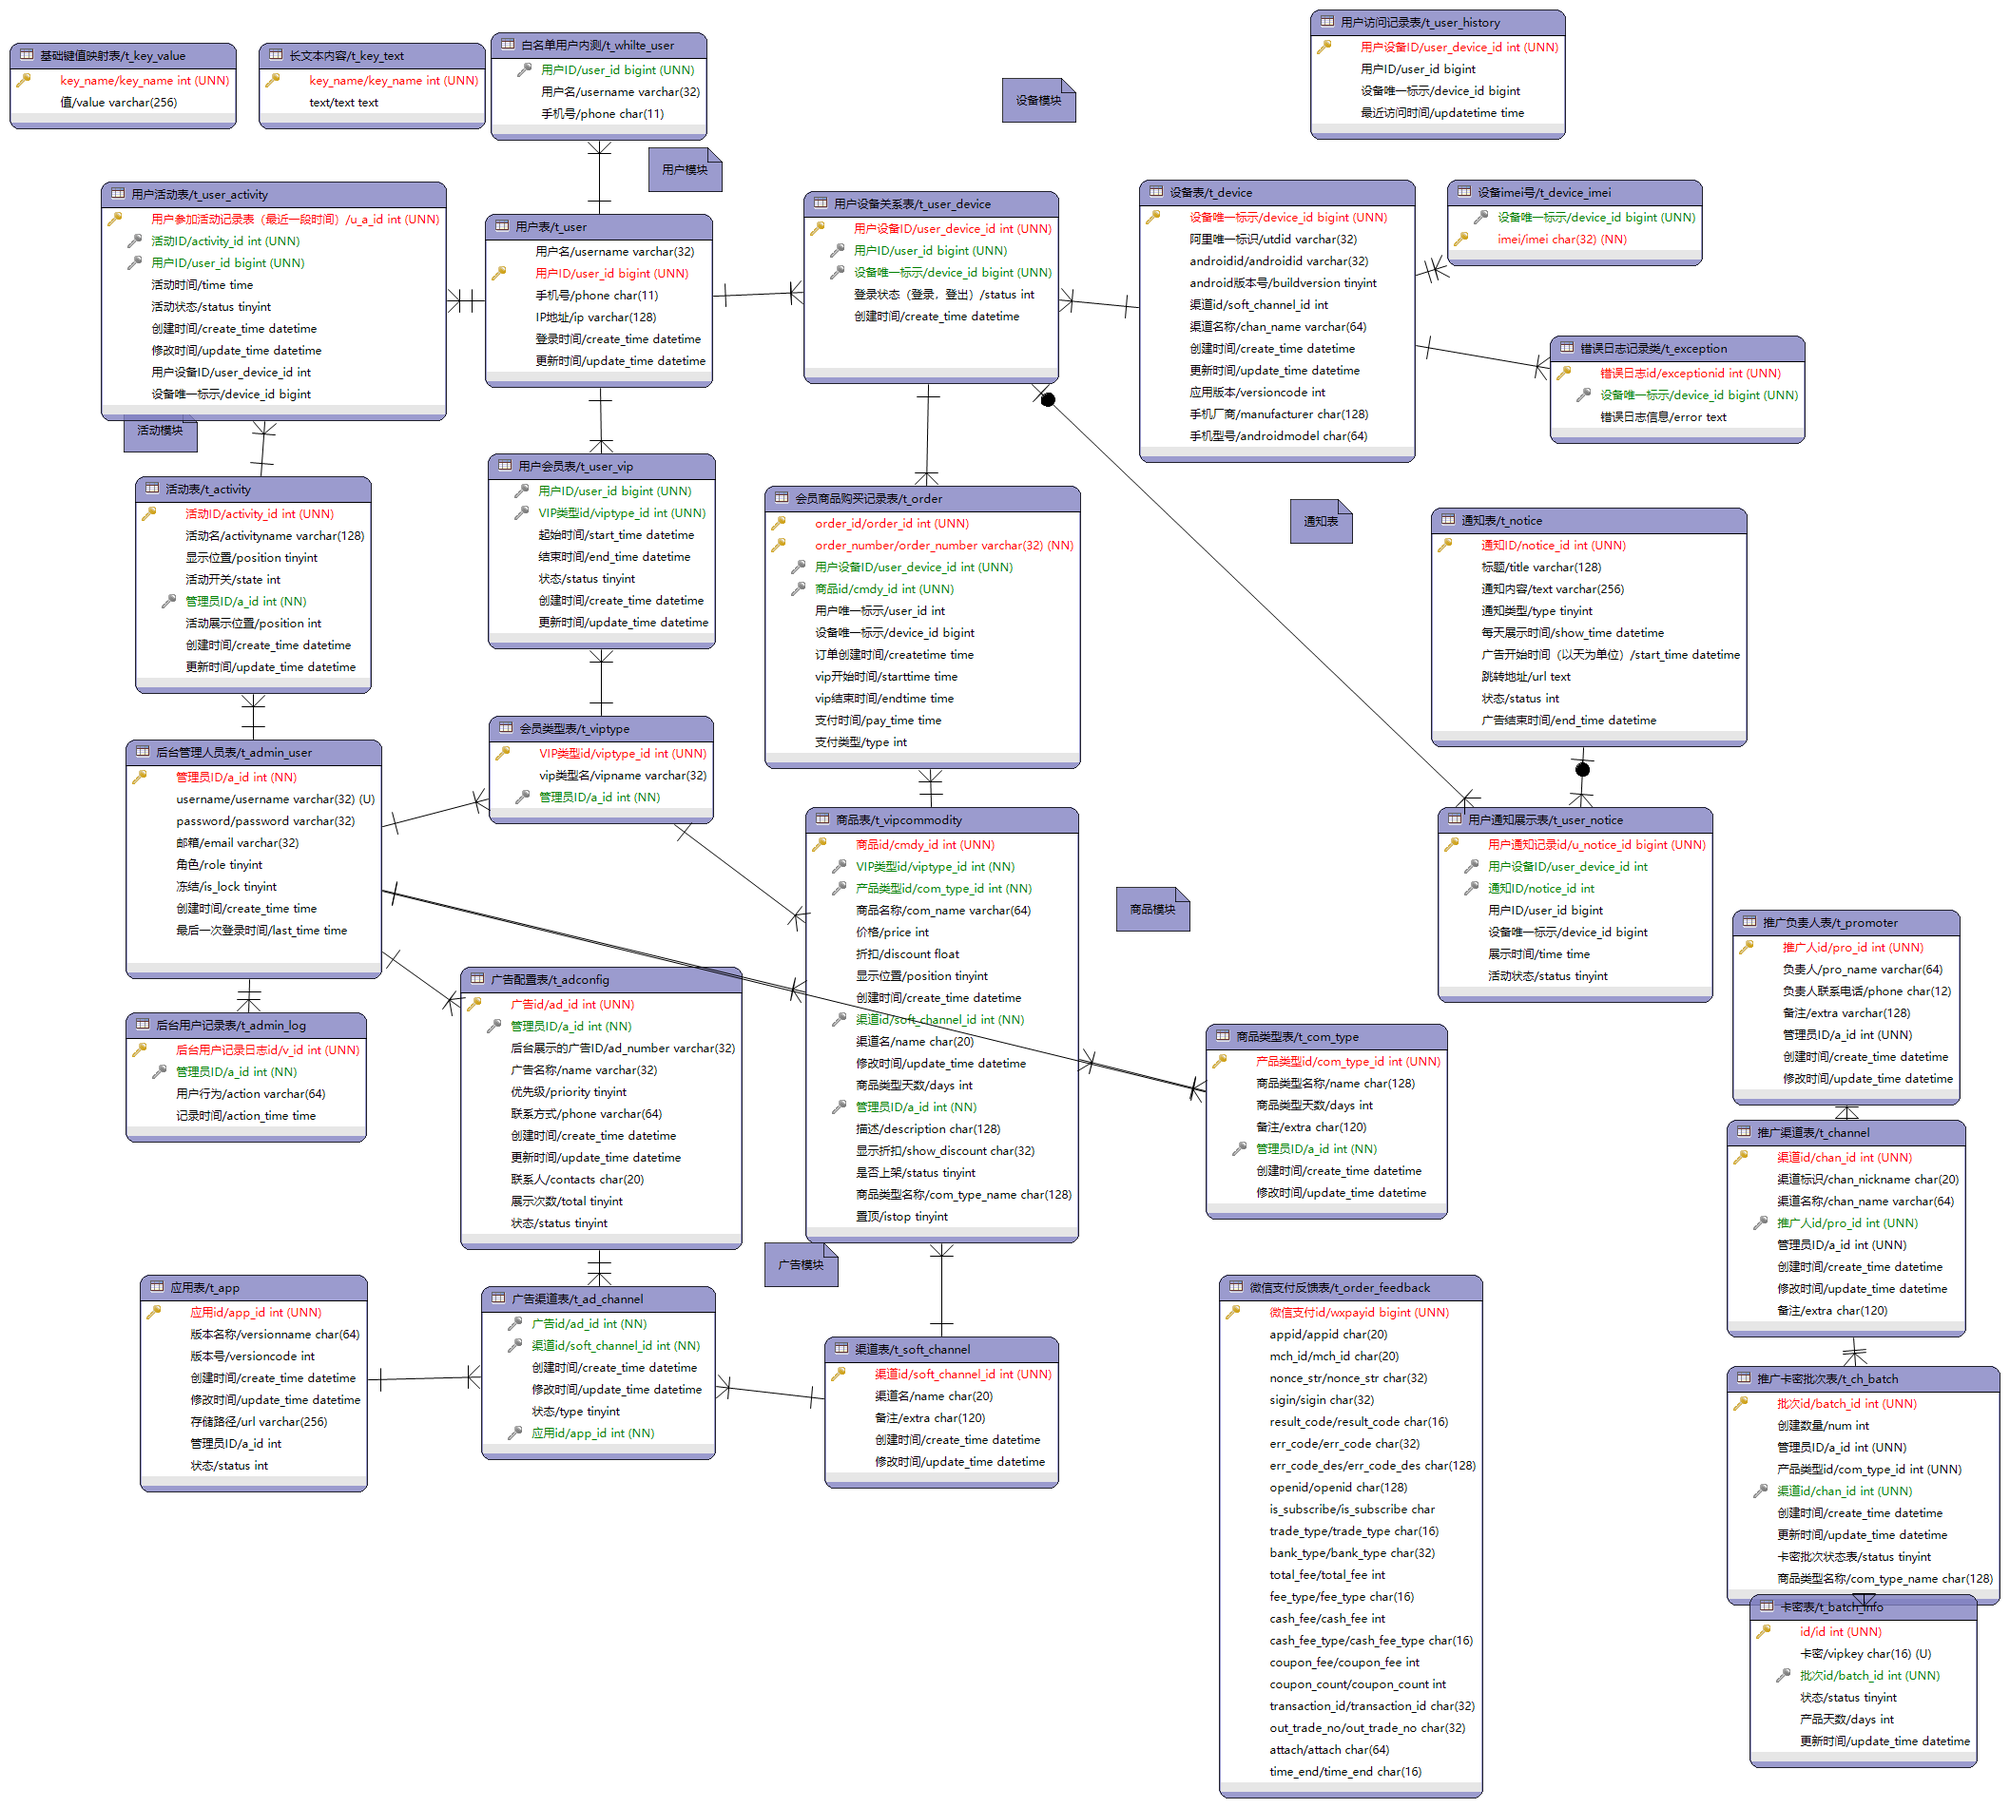
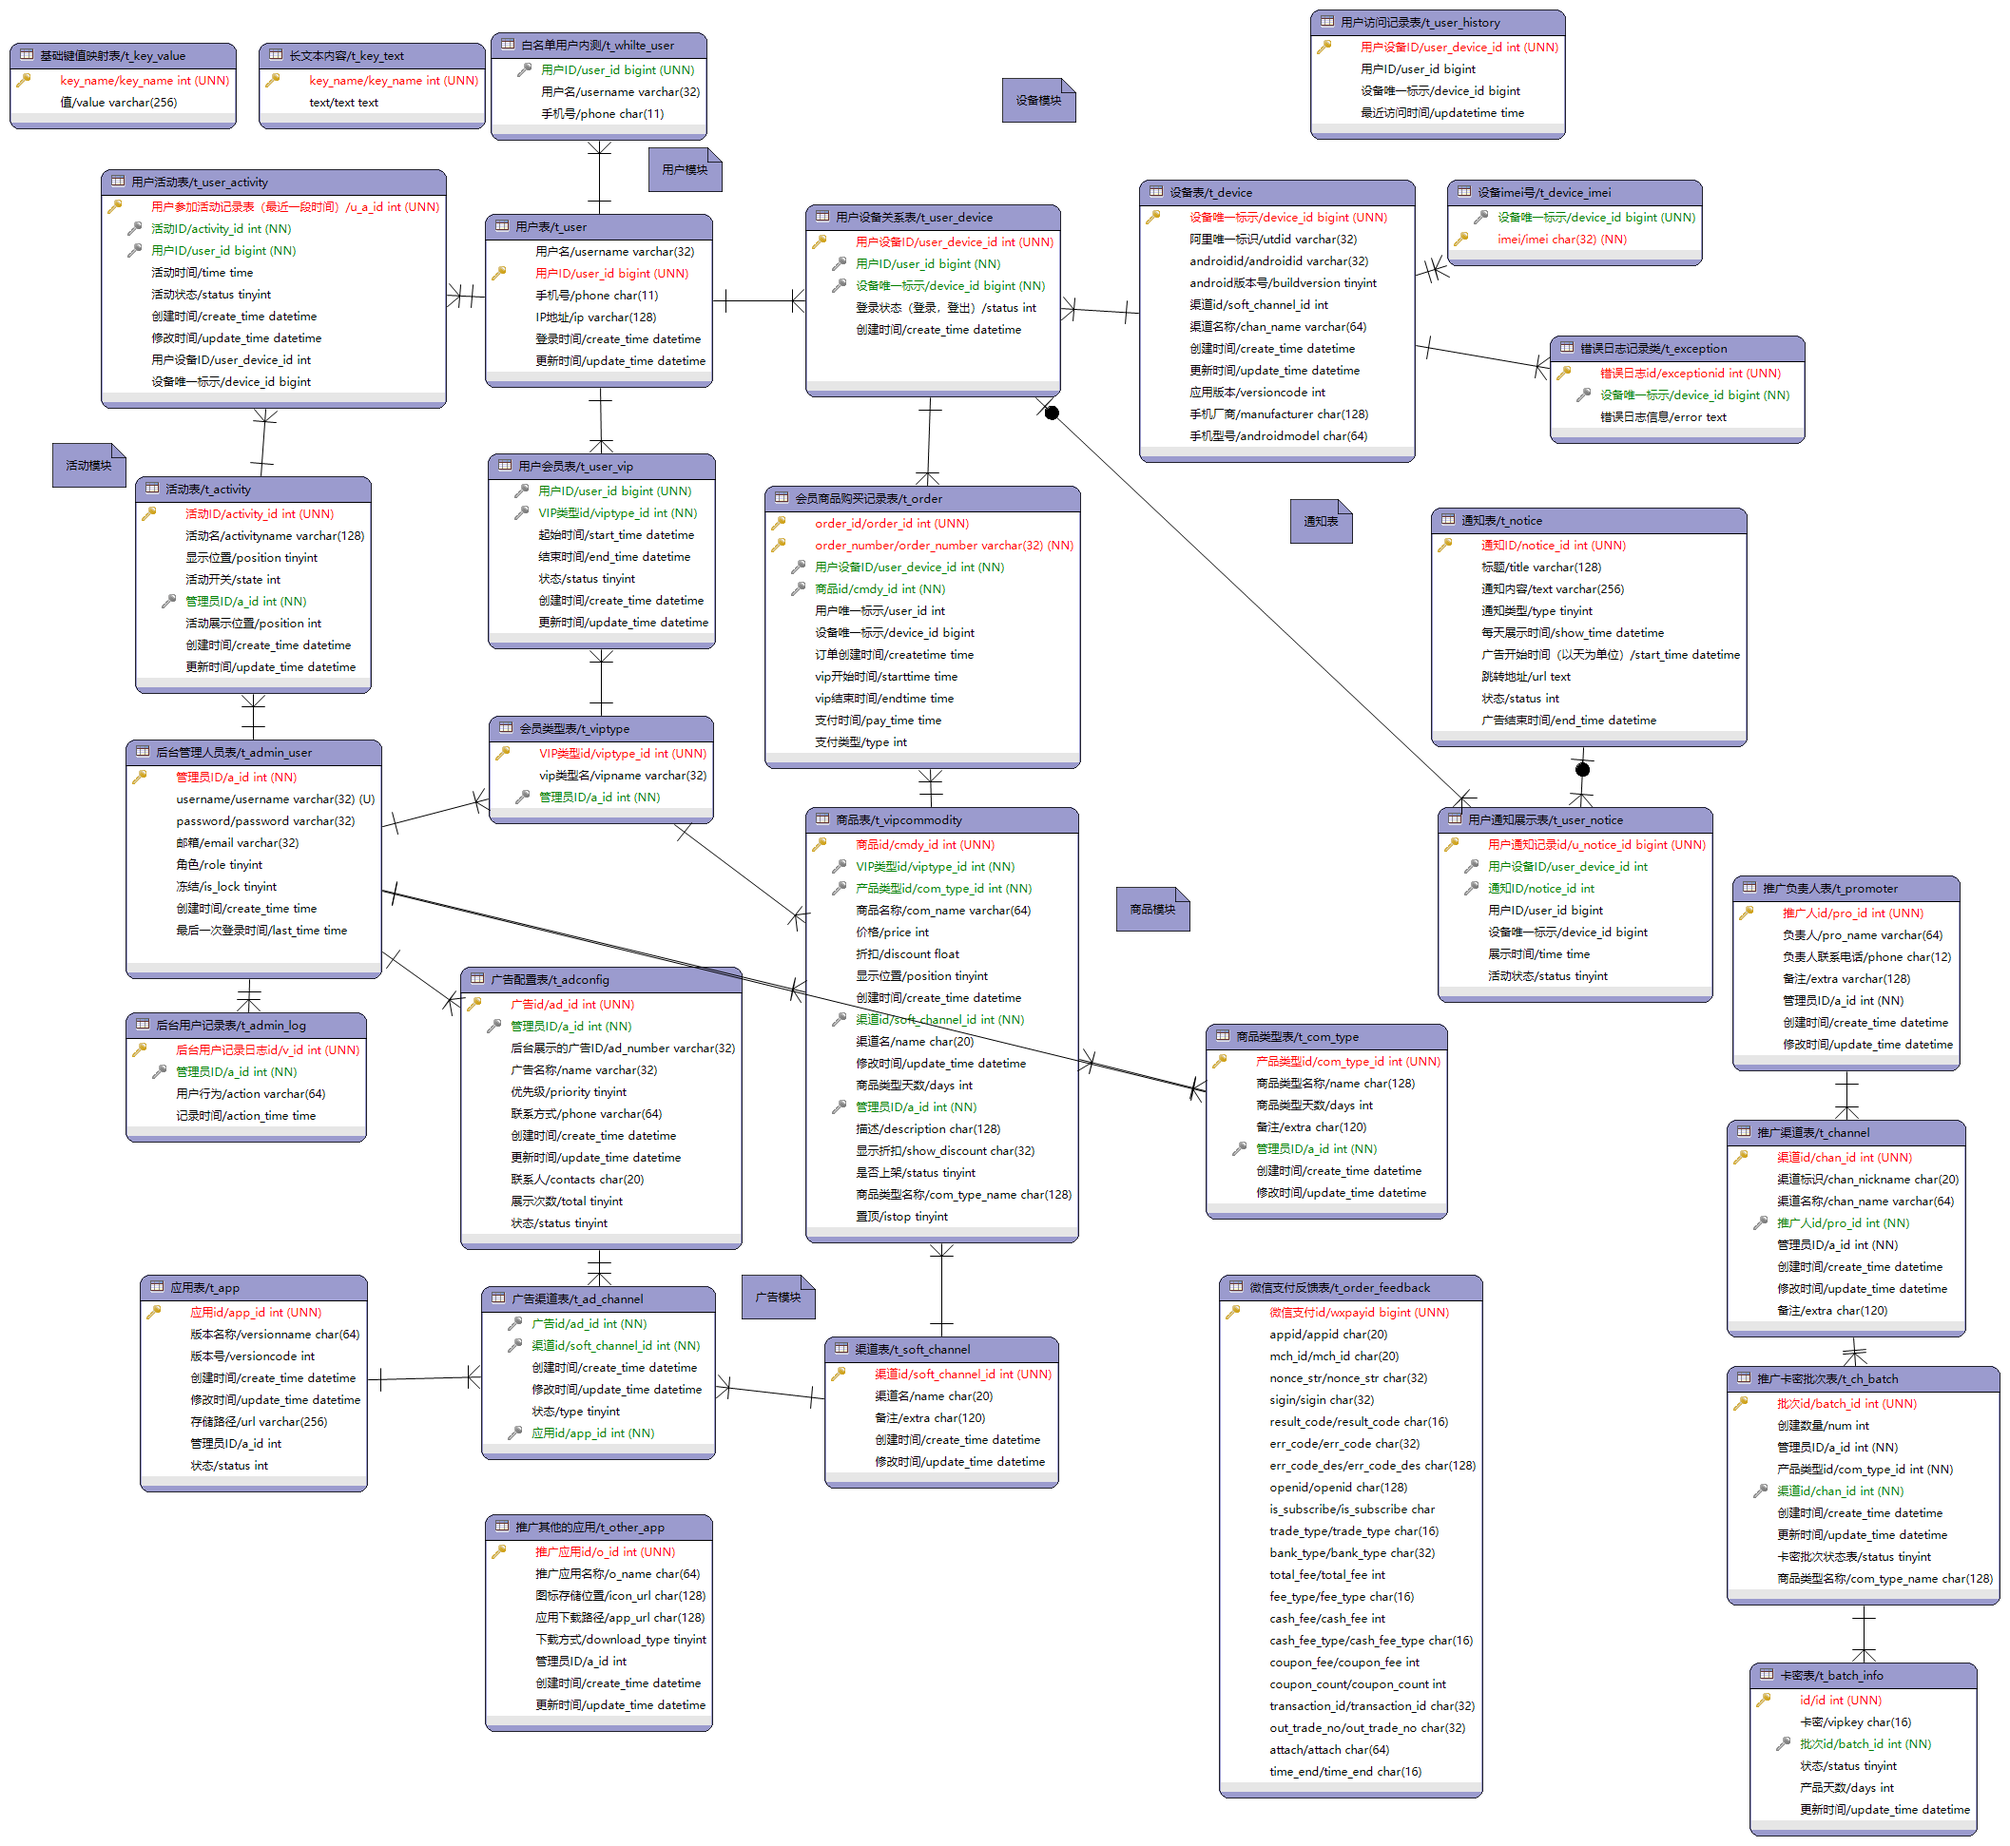
update t_other_app table

diff --git a/smartweb/src/main/java/com/rpa/web/pojo/OtherAppPO.java b/smartweb/src/main/java/com/rpa/web/pojo/OtherAppPO.java
@@ -1,0 +1,151 @@
+package com.rpa.web.pojo;
+
+import java.io.Serializable;
+import java.util.Date;
+
+/**
+ * t_other_app
+ * @author 
+ */
+public class OtherAppPO implements Serializable {
+    private Integer oId;
+
+    private String oName;
+
+    private String iconUrl;
+
+    private String appUrl;
+
+    /**
+     * 1 直接下载  2应用市场
+     */
+    private Byte downloadType;
+
+    private Integer aId;
+
+    private Date createTime;
+
+    private Date updateTime;
+
+    private static final long serialVersionUID = 1L;
+
+    public Integer getoId() {
+        return oId;
+    }
+
+    public void setoId(Integer oId) {
+        this.oId = oId;
+    }
+
+    public String getoName() {
+        return oName;
+    }
+
+    public void setoName(String oName) {
+        this.oName = oName;
+    }
+
+    public String getIconUrl() {
+        return iconUrl;
+    }
+
+    public void setIconUrl(String iconUrl) {
+        this.iconUrl = iconUrl;
+    }
+
+    public String getAppUrl() {
+        return appUrl;
+    }
+
+    public void setAppUrl(String appUrl) {
+        this.appUrl = appUrl;
+    }
+
+    public Byte getDownloadType() {
+        return downloadType;
+    }
+
+    public void setDownloadType(Byte downloadType) {
+        this.downloadType = downloadType;
+    }
+
+    public Integer getaId() {
+        return aId;
+    }
+
+    public void setaId(Integer aId) {
+        this.aId = aId;
+    }
+
+    public Date getCreateTime() {
+        return createTime;
+    }
+
+    public void setCreateTime(Date createTime) {
+        this.createTime = createTime;
+    }
+
+    public Date getUpdateTime() {
+        return updateTime;
+    }
+
+    public void setUpdateTime(Date updateTime) {
+        this.updateTime = updateTime;
+    }
+
+    @Override
+    public boolean equals(Object that) {
+        if (this == that) {
+            return true;
+        }
+        if (that == null) {
+            return false;
+        }
+        if (getClass() != that.getClass()) {
+            return false;
+        }
+        OtherAppPO other = (OtherAppPO) that;
+        return (this.getoId() == null ? other.getoId() == null : this.getoId().equals(other.getoId()))
+            && (this.getoName() == null ? other.getoName() == null : this.getoName().equals(other.getoName()))
+            && (this.getIconUrl() == null ? other.getIconUrl() == null : this.getIconUrl().equals(other.getIconUrl()))
+            && (this.getAppUrl() == null ? other.getAppUrl() == null : this.getAppUrl().equals(other.getAppUrl()))
+            && (this.getDownloadType() == null ? other.getDownloadType() == null : this.getDownloadType().equals(other.getDownloadType()))
+            && (this.getaId() == null ? other.getaId() == null : this.getaId().equals(other.getaId()))
+            && (this.getCreateTime() == null ? other.getCreateTime() == null : this.getCreateTime().equals(other.getCreateTime()))
+            && (this.getUpdateTime() == null ? other.getUpdateTime() == null : this.getUpdateTime().equals(other.getUpdateTime()));
+    }
+
+    @Override
+    public int hashCode() {
+        final int prime = 31;
+        int result = 1;
+        result = prime * result + ((getoId() == null) ? 0 : getoId().hashCode());
+        result = prime * result + ((getoName() == null) ? 0 : getoName().hashCode());
+        result = prime * result + ((getIconUrl() == null) ? 0 : getIconUrl().hashCode());
+        result = prime * result + ((getAppUrl() == null) ? 0 : getAppUrl().hashCode());
+        result = prime * result + ((getDownloadType() == null) ? 0 : getDownloadType().hashCode());
+        result = prime * result + ((getaId() == null) ? 0 : getaId().hashCode());
+        result = prime * result + ((getCreateTime() == null) ? 0 : getCreateTime().hashCode());
+        result = prime * result + ((getUpdateTime() == null) ? 0 : getUpdateTime().hashCode());
+        return result;
+    }
+
+    @Override
+    public String toString() {
+        StringBuilder sb = new StringBuilder();
+        sb.append(getClass().getSimpleName());
+        sb.append(" [");
+        sb.append("Hash = ").append(hashCode());
+        sb.append(", oId=").append(oId);
+        sb.append(", oName=").append(oName);
+        sb.append(", iconUrl=").append(iconUrl);
+        sb.append(", appUrl=").append(appUrl);
+        sb.append(", downloadType=").append(downloadType);
+        sb.append(", aId=").append(aId);
+        sb.append(", createTime=").append(createTime);
+        sb.append(", updateTime=").append(updateTime);
+        sb.append(", serialVersionUID=").append(serialVersionUID);
+        sb.append("]");
+        return sb.toString();
+    }
+}

diff --git a/smartweb/src/main/java/com/rpa/web/mapper/OtherAppMapper.java b/smartweb/src/main/java/com/rpa/web/mapper/OtherAppMapper.java
@@ -1,0 +1,11 @@
+package com.rpa.web.mapper;
+
+import com.rpa.web.pojo.OtherAppPO;
+import org.apache.ibatis.annotations.Mapper;
+
+/**
+ * OtherAppMapper继承基类
+ */
+@Mapper
+public interface OtherAppMapper extends BaseDAO<OtherAppPO, Integer> {
+}
